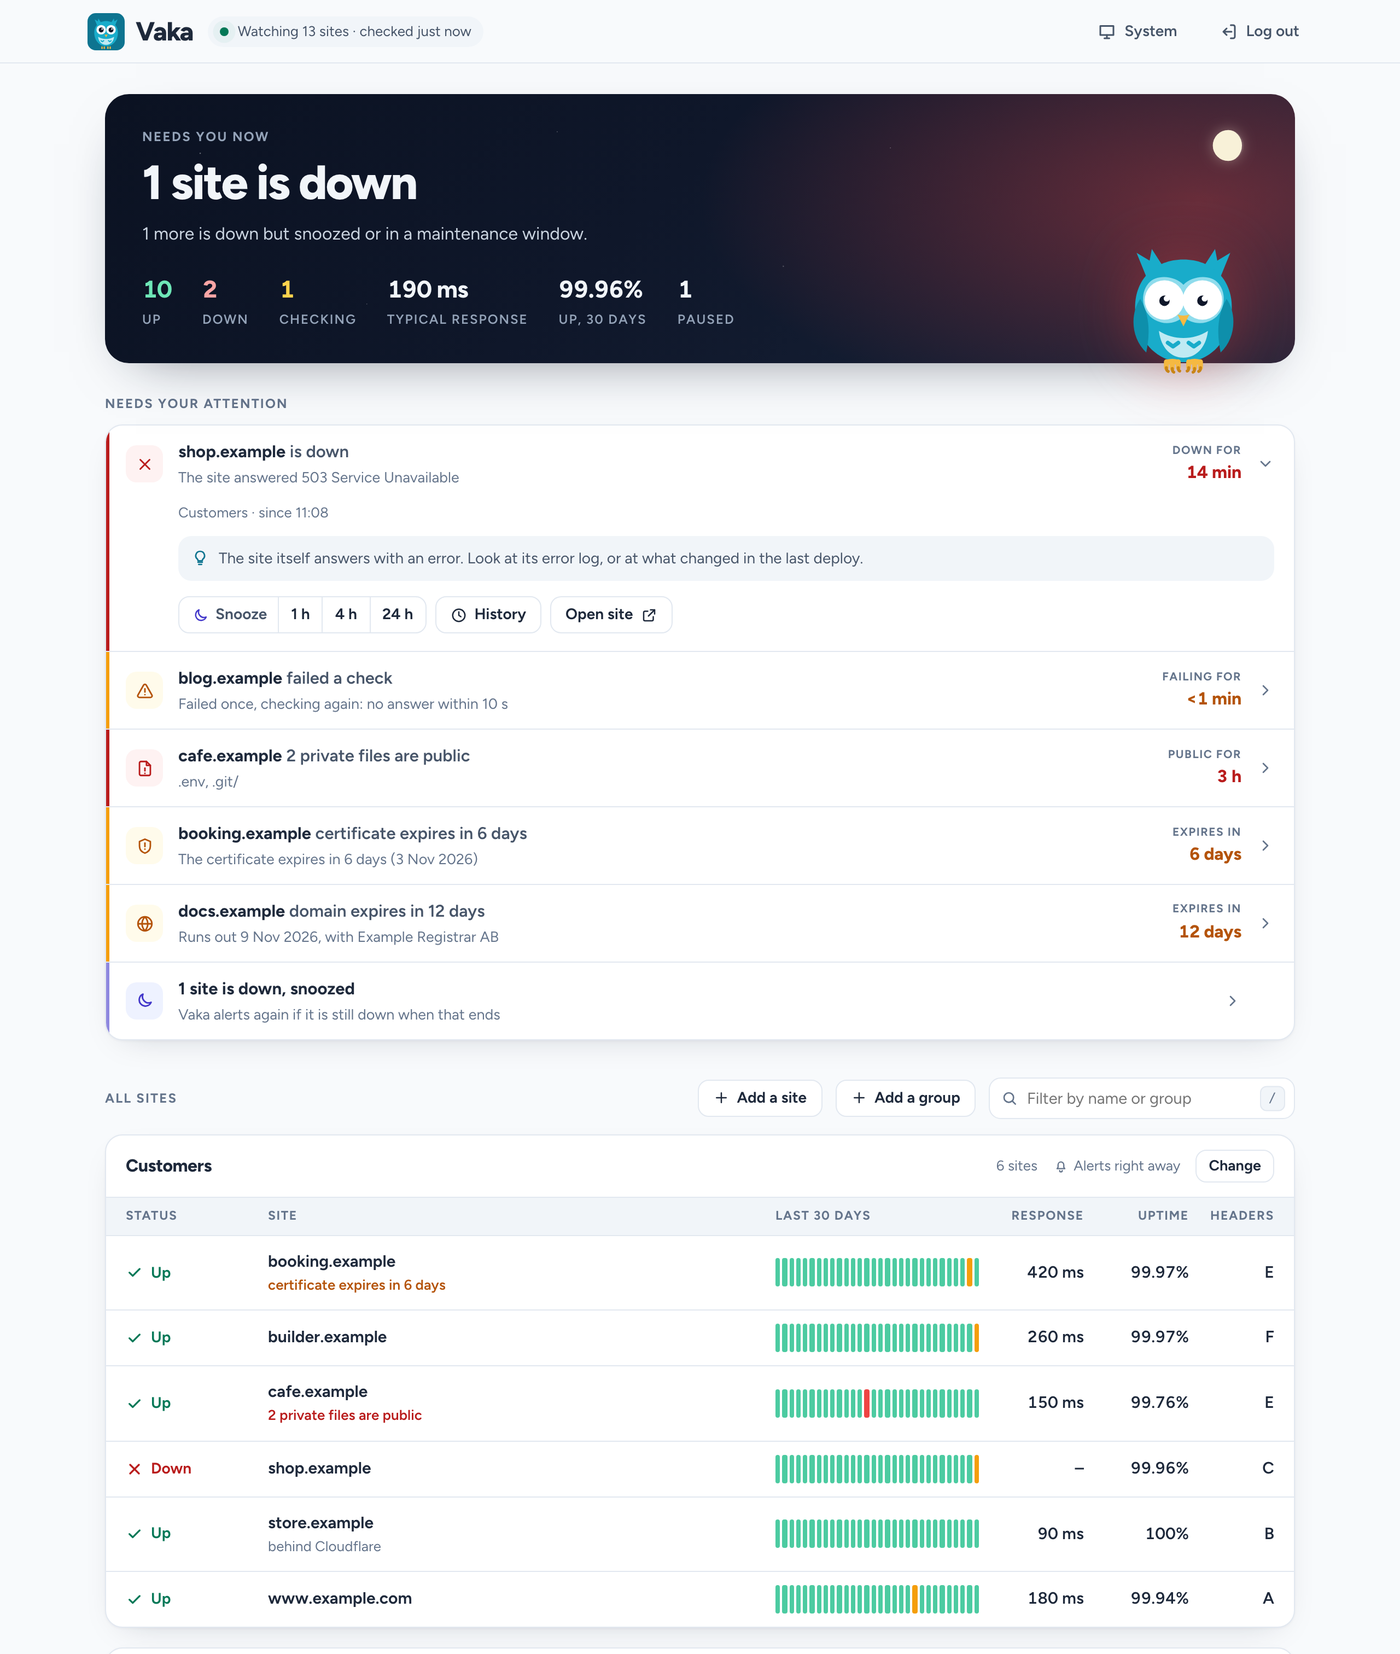
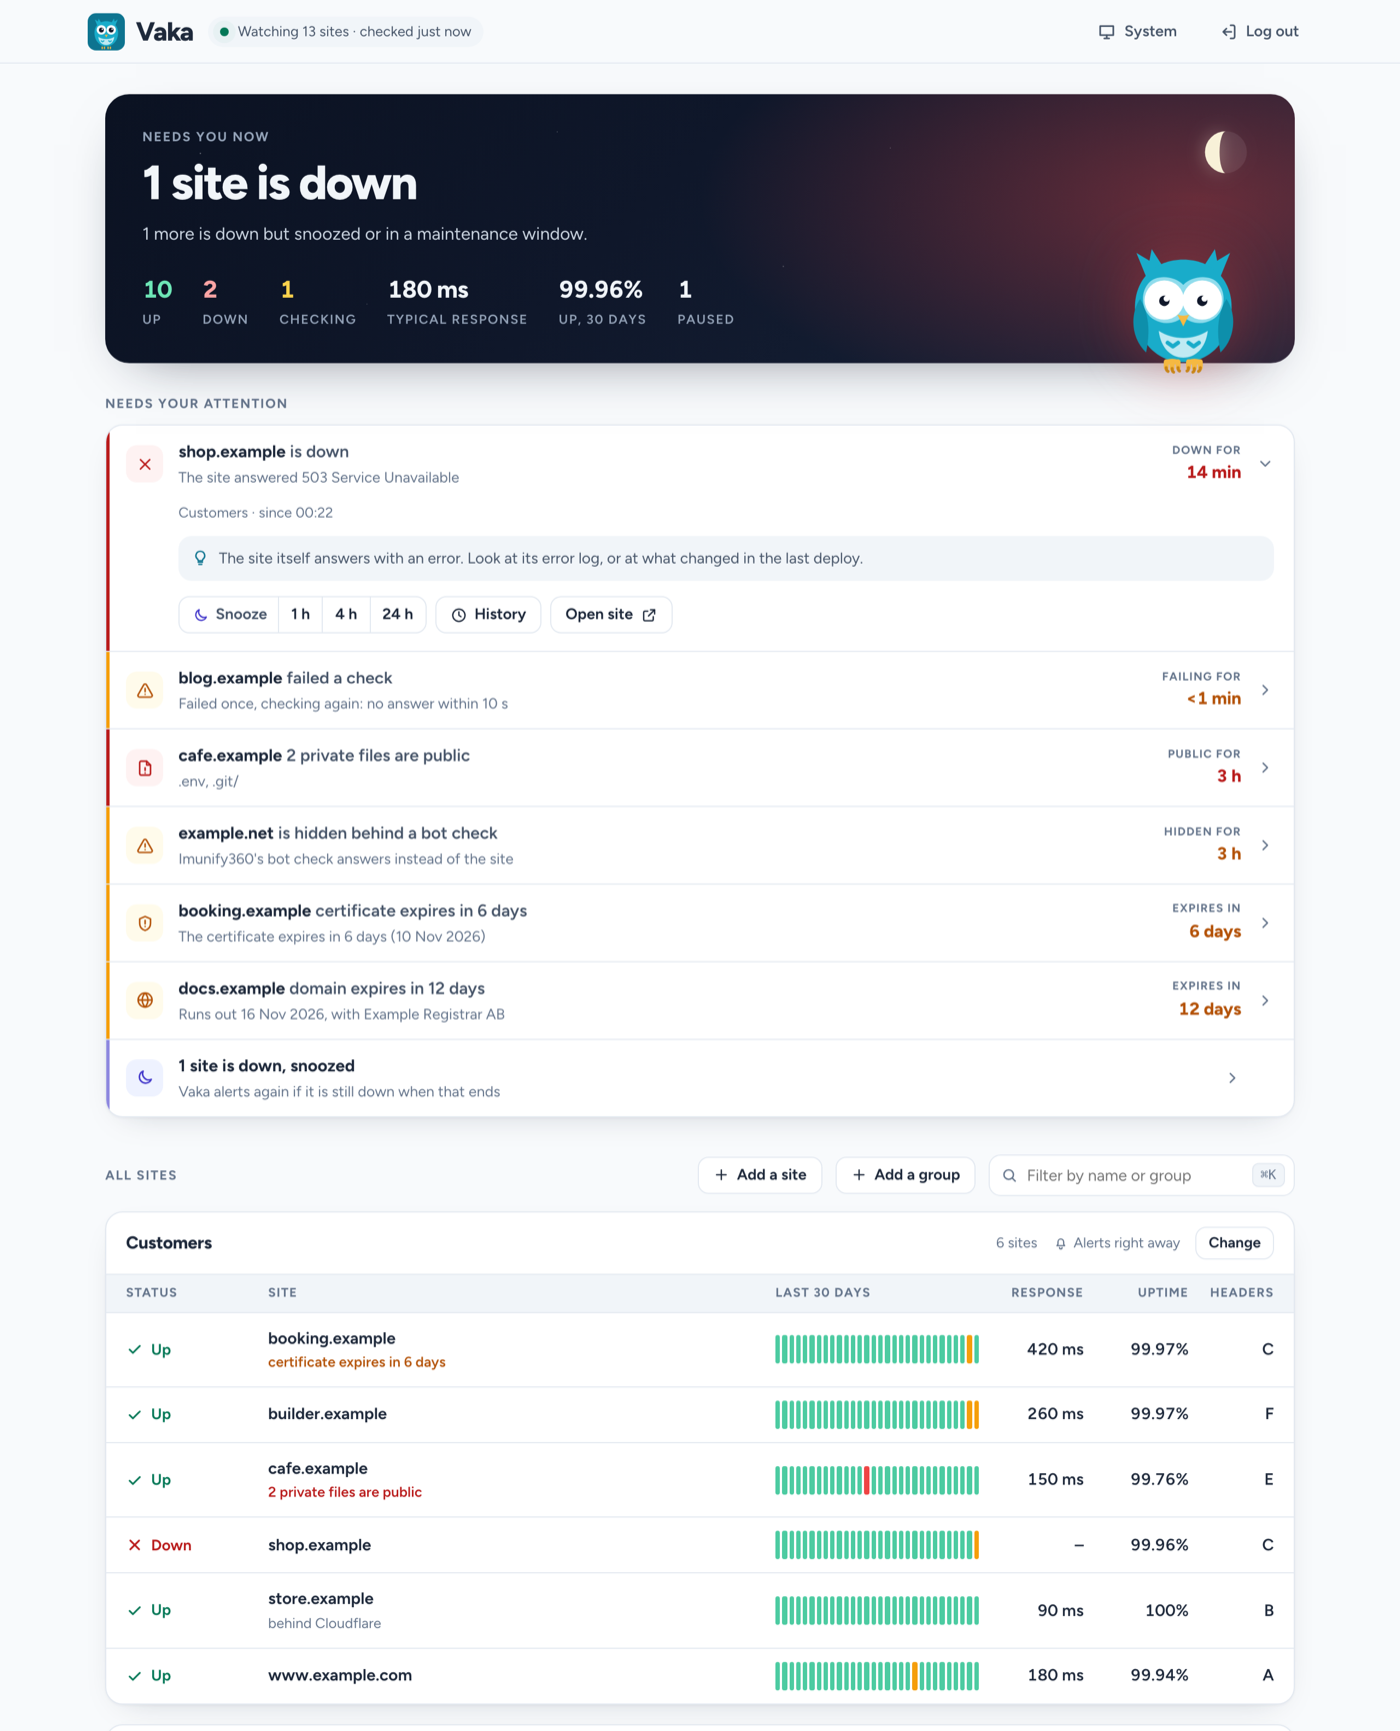
Linked the Vaka card to its repo, with new text and screenshot

diff --git a/ROADMAP.md b/ROADMAP.md
@@ -38,4 +38,4 @@
 
 ## Later
 
-- Link the Vaka and Snoka cards on the home page to their repos when they go public (`url` in `src/pages/index.astro`). Left out for now since a link to a private repo gives visitors a 404.
+- Link the Snoka card on the home page to its repo when it goes public (`url` in `src/pages/index.astro`). Left out for now since a link to a private repo gives visitors a 404.
